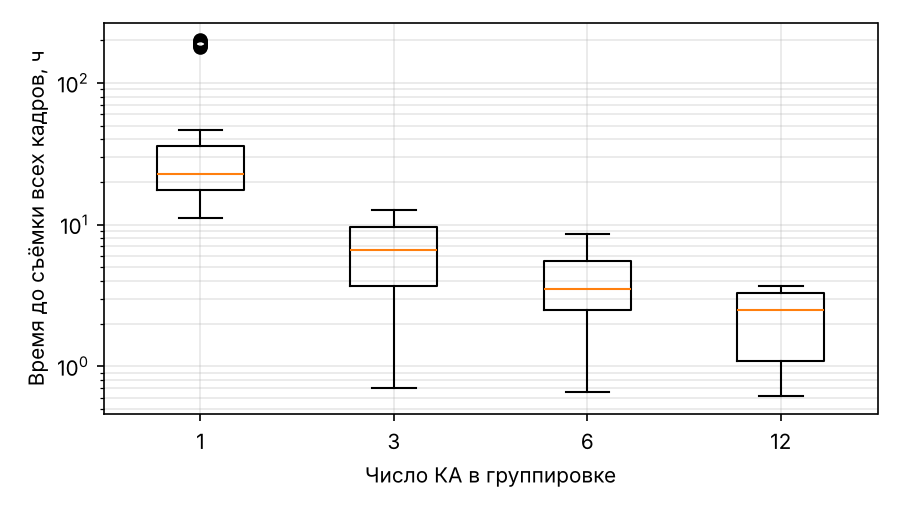
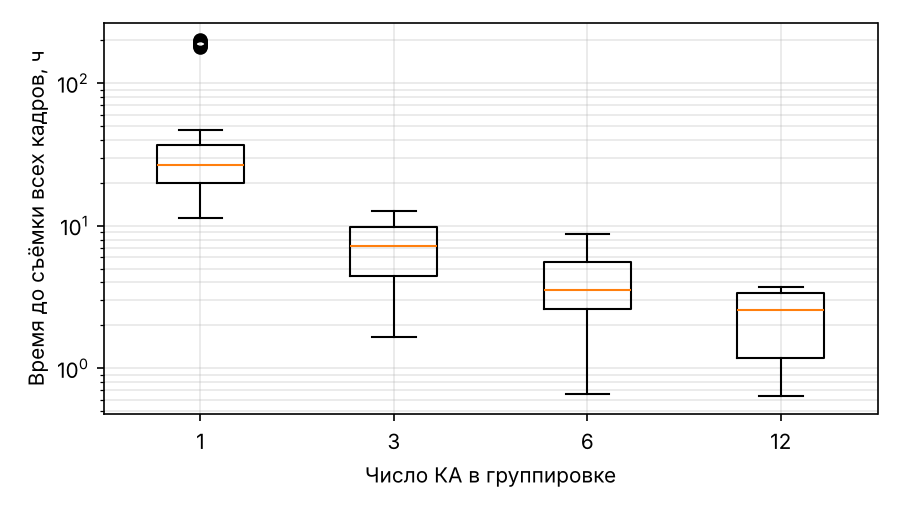
Точный профиль Днестра из Днестр.gpkg
Ось реки читается из GeoPackage (sarplan/gis.py, без GDAL), рамки цепочки
ставятся по руслу с шагом 4,9 км по прямой. В YAML-заявке линию можно взять
из gpkg. Пересчитаны таблицы 6, 7, линия из 21 кадра и рисунок 2.

Claude-Session: https://claude.ai/code/session_01LSoZhuaYbcJAruzqXiX549

diff --git a/sarplan/targets.py b/sarplan/targets.py
@@ -9,16 +9,44 @@
 
 from typing import List, Sequence, Tuple
 
+import os
+
 import numpy as np
 
 from .criterion import Element, Frame
 from .frames import azimuth_between, distance_km, offset_point
 
-# Ось нижнего Днестра от устья (Днестровский лиман) до Тирасполя, оцифрована приближённо
-DNESTR_AXIS = [
+# Точный профиль Днестра (OpenStreetMap, relation 2474595) в корне репозитория
+DNESTR_GPKG = os.path.join(os.path.dirname(os.path.dirname(os.path.abspath(__file__))), "Днестр.gpkg")
+BLACK_SEA_POINT = (46.07, 30.46)      # выход Днестровского лимана в море
+TIRASPOL = (46.84, 29.63)
+
+# Ось нижнего Днестра от устья до Тирасполя, оцифрована приближённо (запасной вариант без .gpkg)
+DNESTR_AXIS_APPROX = [
     (46.07, 30.46), (46.20, 30.33), (46.33, 30.25), (46.42, 30.27), (46.45, 30.12),
     (46.55, 30.02), (46.62, 29.93), (46.70, 29.80), (46.77, 29.70), (46.84, 29.63),
 ]
+
+
+def dnestr_axis(source: str = "auto", length_km: float = 250.0):
+    """
+    Ось нижнего Днестра от устья вверх по течению.
+    source: "gpkg" — точный профиль из Днестр.gpkg, "approx" — приближённая ломаная,
+    "auto" — gpkg, если файл есть.
+    """
+    if source == "approx" or (source == "auto" and not os.path.exists(DNESTR_GPKG)):
+        return list(DNESTR_AXIS_APPROX)
+    from .gis import cut_from_end, read_gpkg_lines
+    lines = read_gpkg_lines(DNESTR_GPKG)
+
+    def near(l):
+        a = np.array(l)
+        return float(np.min(distance_km(a[:, 0], a[:, 1], *TIRASPOL)))
+
+    return cut_from_end(min(lines, key=near), BLACK_SEA_POINT, length_km)
+
+
+DNESTR_AXIS = DNESTR_AXIS_APPROX
 
 Scenario = Tuple[List[Element], List[Frame]]
 
@@ -48,12 +76,32 @@ def resample_polyline(vertices: Sequence[Tuple[float, float]], step_km: float,
     return pts
 
 
+def resample_polyline_chord(vertices, step_km: float, max_points: int = None):
+    """
+    Центры кадров вдоль извилистой линии: следующий центр ставится там, где линия
+    удаляется от предыдущего центра на step_km по прямой, — так кадры покрывают
+    меандры без лишних перекрытий.
+    """
+    pts = [tuple(vertices[0])]
+    dense = resample_polyline(vertices, min(step_km / 20.0, 0.25))
+    for la, lo in dense[1:]:
+        if float(distance_km(pts[-1][0], pts[-1][1], la, lo)) >= step_km:
+            pts.append((la, lo))
+            if max_points and len(pts) >= max_points:
+                break
+    return pts
+
+
 def line_element(eid: str, vertices, frame_km: float = 5.0, overlap_km: float = 0.1,
                  alpha: float = 1.0, deadline_h: float = float("inf"),
-                 n_frames: int = None) -> Scenario:
-    """Линейный элемент: цепочка кадров вдоль оси с шагом frame_km - overlap_km."""
+                 n_frames: int = None, chord: bool = False) -> Scenario:
+    """
+    Линейный элемент: цепочка кадров вдоль оси с шагом frame_km - overlap_km
+    (по длине линии или, при chord=True, по прямой между центрами).
+    """
     step = frame_km - overlap_km
-    pts = resample_polyline(vertices, step, n_frames)
+    pts = (resample_polyline_chord(vertices, step, n_frames) if chord
+           else resample_polyline(vertices, step, n_frames))
     pts = [(float(a), float(b)) for a, b in pts]
     e = Element(eid, "line", alpha, deadline_h, meta={"n_frames": len(pts)})
     c = 1.0 / len(pts)
@@ -153,20 +201,23 @@ def urgent_request(rng, center, azimuth_deg, alpha: float = 8.0, deadline_h: flo
 
 
 def dnestr_targets(n_chain: int = 21, frame_km: float = 5.0, n_points: int = 19,
-                   seed: int = 54, chain_id: str = "DNESTR") -> Scenario:
+                   seed: int = 54, chain_id: str = "DNESTR", source: str = "auto") -> Scenario:
     """
-    Участок Днестра от Чёрного моря к Тирасполю: цепочка из n_chain рамок
-    frame_km × frame_km вдоль оси реки и n_points точечных объектов района.
+    Участок Днестра от устья к Тирасполю: цепочка из n_chain рамок frame_km × frame_km
+    вдоль оси реки (по точному профилю Днестр.gpkg, если он есть) и n_points точечных
+    объектов района.
     """
-    chain = line_element(chain_id, DNESTR_AXIS, frame_km=frame_km, overlap_km=frame_km * 0.02,
-                         n_frames=n_chain)
+    axis = dnestr_axis(source)
+    chord = len(axis) > len(DNESTR_AXIS_APPROX)
+    chain = line_element(chain_id, axis, frame_km=frame_km, overlap_km=frame_km * 0.02,
+                         n_frames=n_chain, chord=chord)
     if n_points == 0:
         return chain
     rng = np.random.default_rng(seed)
-    axis = resample_polyline(DNESTR_AXIS, 5.0)
+    near = [(f.lat, f.lon) for f in chain[1]]
     parts = [chain]
     for j in range(n_points):
-        la0, lo0 = axis[rng.integers(0, len(axis))]
+        la0, lo0 = near[rng.integers(0, len(near))]
         la, lo = offset_point(la0, lo0, float(rng.uniform(0, 360)), float(rng.uniform(3, 25)))
         parts.append(point_element(f"D{j:02d}", float(la), float(lo), float(rng.integers(1, 6))))
     return merge(*parts)

diff --git a/sarplan/gis.py b/sarplan/gis.py
@@ -1,0 +1,118 @@
+"""
+Чтение линейных объектов из GeoPackage (.gpkg) без GDAL: SQLite + разбор
+геометрии GPKG/WKB (LineString, MultiLineString), координаты WGS-84.
+"""
+
+import sqlite3
+import struct
+from typing import List, Optional, Tuple
+
+import numpy as np
+
+from .frames import distance_km
+
+Line = List[Tuple[float, float]]          # [(lat, lon), ...]
+
+
+def _parse_wkb(buf: bytes, pos: int = 0):
+    order = "<" if buf[pos] == 1 else ">"
+    gtype = struct.unpack_from(order + "I", buf, pos + 1)[0]
+    base = gtype % 1000
+    dims = {0: 2, 1: 3, 2: 3, 3: 4}[gtype // 1000]
+    if gtype & 0x80000000 or gtype & 0x40000000:        # EWKB-флаги Z/M
+        dims = 2 + bool(gtype & 0x80000000) + bool(gtype & 0x40000000)
+        base = gtype & 0xFF
+    pos += 5
+    if base == 2:                                        # LineString
+        n = struct.unpack_from(order + "I", buf, pos)[0]
+        pos += 4
+        xy = np.frombuffer(buf, dtype=order + "f8", count=n * dims, offset=pos).reshape(n, dims)
+        pos += 8 * n * dims
+        return [[(float(y), float(x)) for x, y in xy[:, :2]]], pos
+    if base == 5:                                        # MultiLineString
+        n = struct.unpack_from(order + "I", buf, pos)[0]
+        pos += 4
+        out = []
+        for _ in range(n):
+            parts, pos = _parse_wkb(buf, pos)
+            out += parts
+        return out, pos
+    raise ValueError(f"Неподдерживаемый тип геометрии WKB: {gtype}")
+
+
+def parse_gpkg_geometry(blob: bytes) -> List[Line]:
+    """Геометрия GPKG (заголовок 'GP' + WKB) -> список линий [(lat, lon)]."""
+    if blob[:2] != b"GP":
+        raise ValueError("Не геометрия GeoPackage")
+    flags = blob[3]
+    env = {0: 0, 1: 32, 2: 48, 3: 48, 4: 64}[(flags >> 1) & 0x07]
+    lines, _ = _parse_wkb(blob, 8 + env)
+    return lines
+
+
+def read_gpkg_lines(path: str, layer: Optional[str] = None) -> List[Line]:
+    """Все линии слоя (по умолчанию первого векторного слоя) в WGS-84."""
+    con = sqlite3.connect(path)
+    try:
+        if layer is None:
+            layer = con.execute("select table_name from gpkg_contents where data_type='features'").fetchone()[0]
+        srs, col = con.execute("select srs_id, column_name from gpkg_geometry_columns where table_name=?",
+                               (layer,)).fetchone()
+        if srs != 4326:
+            raise ValueError(f"Ожидается WGS-84 (EPSG:4326), в слое {layer} srs_id={srs}")
+        lines = []
+        for (blob,) in con.execute(f'select "{col}" from "{layer}"'):
+            if blob:
+                lines += parse_gpkg_geometry(blob)
+        return lines
+    finally:
+        con.close()
+
+
+def merge_lines(lines: List[Line], tol_km: float = 0.05) -> List[Line]:
+    """Склеить части мультилинии в цепочки по совпадающим концам."""
+    parts = [list(l) for l in lines if len(l) > 1]
+    merged = []
+    while parts:
+        cur = parts.pop(0)
+        grown = True
+        while grown:
+            grown = False
+            for i, p in enumerate(parts):
+                for cand, how in ((p, "end"), (p[::-1], "end"), (p, "start"), (p[::-1], "start")):
+                    a, b = (cur[-1], cand[0]) if how == "end" else (cand[-1], cur[0])
+                    if float(distance_km(a[0], a[1], b[0], b[1])) <= tol_km:
+                        cur = cur + cand[1:] if how == "end" else cand[:-1] + cur
+                        parts.pop(i)
+                        grown = True
+                        break
+                if grown:
+                    break
+        merged.append(cur)
+    return sorted(merged, key=polyline_length_km, reverse=True)
+
+
+def polyline_length_km(line: Line) -> float:
+    a = np.array(line)
+    return float(np.sum(distance_km(a[:-1, 0], a[:-1, 1], a[1:, 0], a[1:, 1])))
+
+
+def cut_from_end(line: Line, start_point: Tuple[float, float], length_km: float) -> Line:
+    """
+    Участок линии длиной length_km, начиная от конца, ближайшего к start_point
+    (например от устья вверх по течению).
+    """
+    a = np.array(line)
+    d0 = float(distance_km(*a[0], *start_point))
+    d1 = float(distance_km(*a[-1], *start_point))
+    if d1 < d0:
+        a = a[::-1]
+    seg = distance_km(a[:-1, 0], a[:-1, 1], a[1:, 0], a[1:, 1])
+    cum = np.concatenate([[0.0], np.cumsum(seg)])
+    j = int(np.searchsorted(cum, length_km))
+    out = [tuple(map(float, p)) for p in a[:j]]
+    if j < len(a):
+        t = (length_km - cum[j - 1]) / max(seg[j - 1], 1e-12)
+        p = a[j - 1] + t * (a[j] - a[j - 1])
+        out.append((float(p[0]), float(p[1])))
+    return out

diff --git a/sarplan/cli.py b/sarplan/cli.py
@@ -40,8 +40,20 @@ def build_scenario(cfg: dict):
         if kind == "point":
             parts.append(targets.point_element(e["id"], e["lat"], e["lon"], n_looks=int(e.get("looks", 1)), **common))
         elif kind == "line":
-            parts.append(targets.line_element(e["id"], [tuple(p) for p in e["points"]], frame_km=frame_km,
-                                              overlap_km=float(e.get("overlap_km", 0.1)), **common))
+            chord = False
+            if "gpkg" in e:
+                from .gis import cut_from_end, read_gpkg_lines
+                from .frames import distance_km
+                lines = read_gpkg_lines(e["gpkg"], e.get("layer"))
+                start = tuple(e["from"])
+                near = lambda l: float(np.min(distance_km(np.array(l)[:, 0], np.array(l)[:, 1], *start)))
+                pts = cut_from_end(min(lines, key=near), start, float(e.get("length_km", 100.0)))
+                chord = True
+            else:
+                pts = [tuple(p) for p in e["points"]]
+            parts.append(targets.line_element(e["id"], pts, frame_km=frame_km, chord=chord,
+                                              overlap_km=float(e.get("overlap_km", 0.1)),
+                                              n_frames=e.get("max_frames"), **common))
         elif kind == "area":
             parts.append(targets.area_element(e["id"], e["lat"], e["lon"], int(e.get("n_along", 2)),
                                               int(e.get("n_across", 2)), float(e.get("azimuth_deg", 0.0)),

diff --git a/sarplan/experiments.py b/sarplan/experiments.py
@@ -503,7 +503,23 @@ def run_all(out_dir: str = "results", names: Sequence[str] = None, quick: bool =
         parts.append(ALL[n](out_dir, **kw))
         print(f"[{n}] {time.perf_counter() - t:.1f} с", flush=True)
     report = "\n".join(parts)
-    if out_dir and set(names) == set(ALL):
-        with open(os.path.join(out_dir, "REPORT.md"), "w", encoding="utf-8") as f:
-            f.write(report)
+    if out_dir:
+        assemble_report(out_dir, quick)
     return report
+
+
+REPORT_FILES = ["fig1_duration", "table3_single_pass", "duplicates", "sensitivity", "table4_admissibility",
+                "table5_rolling", "line21_single_pass", "table6_constellation", "table7_classes"]
+
+
+def assemble_report(out_dir: str, quick: bool = False) -> None:
+    """Собрать results/REPORT.md из сохранённых разделов (после полного или выборочного пересчёта)."""
+    parts = ["# Результаты моделирования (sarplan)\n",
+             f"Обновлено {datetime.now():%Y-%m-%d %H:%M}. Ось Днестра: "
+             f"{'точный профиль Днестр.gpkg' if os.path.exists(targets.DNESTR_GPKG) else 'приближённая'}.\n"]
+    for name in REPORT_FILES:
+        path = os.path.join(out_dir, name + ".md")
+        if os.path.exists(path):
+            parts.append(open(path, encoding="utf-8").read())
+    with open(os.path.join(out_dir, "REPORT.md"), "w", encoding="utf-8") as f:
+        f.write("\n".join(parts))

diff --git a/tests/test_sarplan.py b/tests/test_sarplan.py
@@ -201,3 +201,19 @@ def test_saturation_beats_additive_dp_on_duplicates(ref_pass):
     a = planner.plan_pass(g, m, m.new_acc(), 0.0, range(len(frs)), "proposed").gain
     d = planner.plan_pass(g, m, m.new_acc(), 0.0, range(len(frs)), "dp_additive").gain
     assert a > d
+
+
+# --- профиль Днестра из GeoPackage -------------------------------------------------
+@pytest.mark.skipif(not os.path.exists(targets.DNESTR_GPKG), reason="нет Днестр.gpkg")
+def test_dnestr_gpkg_axis_and_chain():
+    from sarplan import gis
+    lines = gis.read_gpkg_lines(targets.DNESTR_GPKG)
+    assert sum(gis.polyline_length_km(l) for l in lines) == pytest.approx(1383, rel=0.02)
+    axis = targets.dnestr_axis("gpkg")
+    assert frames.distance_km(*axis[0], *targets.BLACK_SEA_POINT) < 40      # начинается у устья
+    els, frs = targets.dnestr_targets(source="gpkg")
+    chain = [f for f in frs if f.fid.startswith("DNESTR")]
+    assert len(chain) == 21 and len(frs) == 40
+    gaps = [float(frames.distance_km(a.lat, a.lon, b.lat, b.lon)) for a, b in zip(chain[:-1], chain[1:])]
+    assert min(gaps) >= 4.85 and max(gaps) < 5.2                             # шаг рамок 4,9 км по прямой
+    assert frames.distance_km(chain[-1].lat, chain[-1].lon, *targets.TIRASPOL) < 20

diff --git a/results/REPORT.md b/results/REPORT.md
@@ -1,6 +1,6 @@
 # Результаты моделирования (sarplan)
 
-Сформировано 2026-10-10 14:46. Режим: полный.
+Обновлено 2026-10-10 15:34. Ось Днестра: точный профиль Днестр.gpkg.
 
 ## Проверка формулы длительности наблюдения (3)
 
@@ -93,16 +93,16 @@
 
 ## Линия из 21 кадра за один пролёт
 
-Снято 20 из 21 кадров: 70.0 с съёмки, 79.5 с с паузами, окно допустимости 80.5 с; оценка (19): N_max = 20.
+Снято 20 из 21 кадров: 70.0 с съёмки, 79.5 с с паузами, окно допустимости 79.5 с; оценка (19): N_max = 20.
 
 ## Таблица 6. Время съёмки 40 кадров группировкой малых КА, ч (медиана и 90-й процентиль по 48 случаям)
 
 | Число КА | До первой съёмки | До съёмки всех кадров | Доля кадров за 12 ч | Не закрыто за горизонт |
 |---|---|---|---|---|
-| 1 | 6.5 (12.2) | 22.8 (185.7) | 0.43 | 0 из 48 |
-| 3 | 4.9 (11.2) | 6.7 (11.9) | 0.96 | 0 из 48 |
-| 6 | 1.8 (5.2) | 3.5 (7.1) | 1.00 | 0 из 48 |
-| 12 | 0.5 (2.4) | 2.5 (3.5) | 1.00 | 0 из 48 |
+| 1 | 6.5 (12.2) | 26.8 (185.7) | 0.44 | 0 из 48 |
+| 3 | 4.9 (11.2) | 7.2 (12.3) | 0.95 | 0 из 48 |
+| 6 | 1.8 (5.2) | 3.5 (7.2) | 1.00 | 0 из 48 |
+| 12 | 0.5 (2.4) | 2.6 (3.6) | 1.00 | 0 из 48 |
 
 \* По закрытым случаям (горизонт 9 сут).
 
@@ -110,7 +110,7 @@
 
 | КА (цепочка) | Сектор по азимуту | Кадров за пролёт (медиана лучшего) | Время съёмки цепочки |
 |---|---|---|---|
-| Малый КА, гибридный режим (21 рамка 5×5 км) | скос до 20°, отклонение луча до 5° | 20 из 21 (Δt = 0.5 с) | первый пролёт 6.5 ч, вся цепочка 0.5 сут (медиана; не закрыто 0 из 48) |
-| «Обзор-Р» (11 рамок 10×15 км) | ±3° | 5 из 11 (Δt = 1 с) | первый пролёт 13.8 ч, вся цепочка 2.2 сут (медиана; не закрыто 0 из 48) |
-| «Кондор-ФКА» (11 рамок 10×10 км), один КА | ±2.05° | 1 из 11 (Δt = 66 с) | первый пролёт 8.4 ч, вся цепочка 7.6 сут (медиана; не закрыто 0 из 48) |
+| Малый КА, гибридный режим (21 рамка 5×5 км) | скос до 20°, отклонение луча до 5° | 20 из 21 (Δt = 0.5 с) | первый пролёт 6.5 ч, вся цепочка 0.6 сут (медиана; не закрыто 0 из 48) |
+| «Обзор-Р» (11 рамок 10×15 км) | ±3° | 5 из 11 (Δt = 1 с) | первый пролёт 11.1 ч, вся цепочка 2.4 сут (медиана; не закрыто 0 из 48) |
+| «Кондор-ФКА» (11 рамок 10×10 км), один КА | ±2.05° | 1 из 11 (Δt = 66 с) | первый пролёт 8.4 ч, вся цепочка 7.0 сут (медиана; не закрыто 0 из 48) |
 | «Кондор-ФКА» (11 рамок 10×10 км), два КА | ±2.05° | 1 из 11 (Δt = 66 с) | первый пролёт 5.5 ч, вся цепочка 3.8 сут (медиана; не закрыто 0 из 48) |

diff --git a/README.md b/README.md
@@ -19,6 +19,7 @@ pyorbital, геометрия съёмки и окна видимости (`sar_
 | `duration.py` | Длительность наблюдения кадра: замкнутая форма с поправкой при ϑ₁ > π, численный интеграл, уравнение Кеплера; исправленный ε и ε в виде [4]; N_обз и N_max | (1)–(5), (9), (19) |
 | `geometry.py` | Оси крен/рыскание/тангаж, пересечение луча с эллипсоидом, Δβ_ск, Δβ_ум, β_ск, β_ум, доплер | (10)–(15) |
 | `targets.py` | Элементы СРО (точка, линия, площадь), кадры-кандидаты, сценарии статьи, ось Днестра | — |
+| `gis.py` | Чтение линий из GeoPackage (`Днестр.gpkg`) без GDAL: SQLite + разбор WKB | — |
 | `windows.py` | Окна видимости и допустимости Ω_k(R_Tп), сетка точек наведения Ξ, показатель Φ_k, кластеризация (Жаккар, иерархическая) | (17) |
 | `criterion.py` | Взвешенное покрытие с насыщением и директивными сроками χ_i(t) | (16) |
 | `planner.py` | Жадная вставка по ρ_k с локальным улучшением, точный перебор подмножеств, внешний цикл по точкам наведения; базовые методы: жадный по приоритету, аналог [2], аддитивное ДП [5, 6], планировщик без модели допустимости | (18), (19) |
@@ -80,5 +81,8 @@ python -m pytest tests
   прошло протяжённость района по азимуту за бюджет T_вкл max; сетка Ξ — 7 смещений × 6 глубин.
 - У КА большого класса механического вращения нет: окно задаётся электронным сектором по скосу
   относительно траверза.
-- Ось Днестра оцифрована приближённо, сценарии синтетические, поэтому числа близки к статье по
-  характеру, но не обязаны совпадать до знака.
+- Ось Днестра берётся из `Днестр.gpkg` (OpenStreetMap): участок от устья вверх по течению, рамки
+  ставятся по руслу с шагом 4,9 км по прямой, поэтому 21 рамка покрывает меандры от устья до района
+  Тирасполя. Без файла используется приближённая ломаная. В YAML-заявке линию тоже можно взять из
+  gpkg (`gpkg`, `from`, `length_km`, см. `config/plan_example.yaml`).
+- Сценарии синтетические, поэтому числа близки к статье по характеру, но не обязаны совпадать до знака.

diff --git a/results/table7_classes.md b/results/table7_classes.md
@@ -2,7 +2,7 @@
 
 | КА (цепочка) | Сектор по азимуту | Кадров за пролёт (медиана лучшего) | Время съёмки цепочки |
 |---|---|---|---|
-| Малый КА, гибридный режим (21 рамка 5×5 км) | скос до 20°, отклонение луча до 5° | 20 из 21 (Δt = 0.5 с) | первый пролёт 6.5 ч, вся цепочка 0.5 сут (медиана; не закрыто 0 из 48) |
-| «Обзор-Р» (11 рамок 10×15 км) | ±3° | 5 из 11 (Δt = 1 с) | первый пролёт 13.8 ч, вся цепочка 2.2 сут (медиана; не закрыто 0 из 48) |
-| «Кондор-ФКА» (11 рамок 10×10 км), один КА | ±2.05° | 1 из 11 (Δt = 66 с) | первый пролёт 8.4 ч, вся цепочка 7.6 сут (медиана; не закрыто 0 из 48) |
+| Малый КА, гибридный режим (21 рамка 5×5 км) | скос до 20°, отклонение луча до 5° | 20 из 21 (Δt = 0.5 с) | первый пролёт 6.5 ч, вся цепочка 0.6 сут (медиана; не закрыто 0 из 48) |
+| «Обзор-Р» (11 рамок 10×15 км) | ±3° | 5 из 11 (Δt = 1 с) | первый пролёт 11.1 ч, вся цепочка 2.4 сут (медиана; не закрыто 0 из 48) |
+| «Кондор-ФКА» (11 рамок 10×10 км), один КА | ±2.05° | 1 из 11 (Δt = 66 с) | первый пролёт 8.4 ч, вся цепочка 7.0 сут (медиана; не закрыто 0 из 48) |
 | «Кондор-ФКА» (11 рамок 10×10 км), два КА | ±2.05° | 1 из 11 (Δt = 66 с) | первый пролёт 5.5 ч, вся цепочка 3.8 сут (медиана; не закрыто 0 из 48) |

diff --git a/results/table6_constellation.md b/results/table6_constellation.md
@@ -2,9 +2,9 @@
 
 | Число КА | До первой съёмки | До съёмки всех кадров | Доля кадров за 12 ч | Не закрыто за горизонт |
 |---|---|---|---|---|
-| 1 | 6.5 (12.2) | 22.8 (185.7) | 0.43 | 0 из 48 |
-| 3 | 4.9 (11.2) | 6.7 (11.9) | 0.96 | 0 из 48 |
-| 6 | 1.8 (5.2) | 3.5 (7.1) | 1.00 | 0 из 48 |
-| 12 | 0.5 (2.4) | 2.5 (3.5) | 1.00 | 0 из 48 |
+| 1 | 6.5 (12.2) | 26.8 (185.7) | 0.44 | 0 из 48 |
+| 3 | 4.9 (11.2) | 7.2 (12.3) | 0.95 | 0 из 48 |
+| 6 | 1.8 (5.2) | 3.5 (7.2) | 1.00 | 0 из 48 |
+| 12 | 0.5 (2.4) | 2.6 (3.6) | 1.00 | 0 из 48 |
 
 \* По закрытым случаям (горизонт 9 сут).

diff --git a/results/line21_single_pass.md b/results/line21_single_pass.md
@@ -1,3 +1,3 @@
 ## Линия из 21 кадра за один пролёт
 
-Снято 20 из 21 кадров: 70.0 с съёмки, 79.5 с с паузами, окно допустимости 80.5 с; оценка (19): N_max = 20.
+Снято 20 из 21 кадров: 70.0 с съёмки, 79.5 с с паузами, окно допустимости 79.5 с; оценка (19): N_max = 20.
